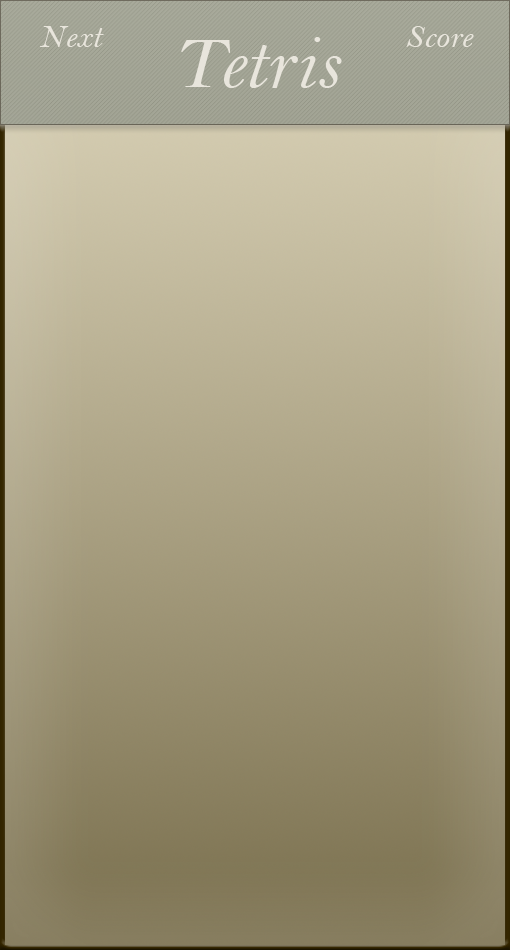
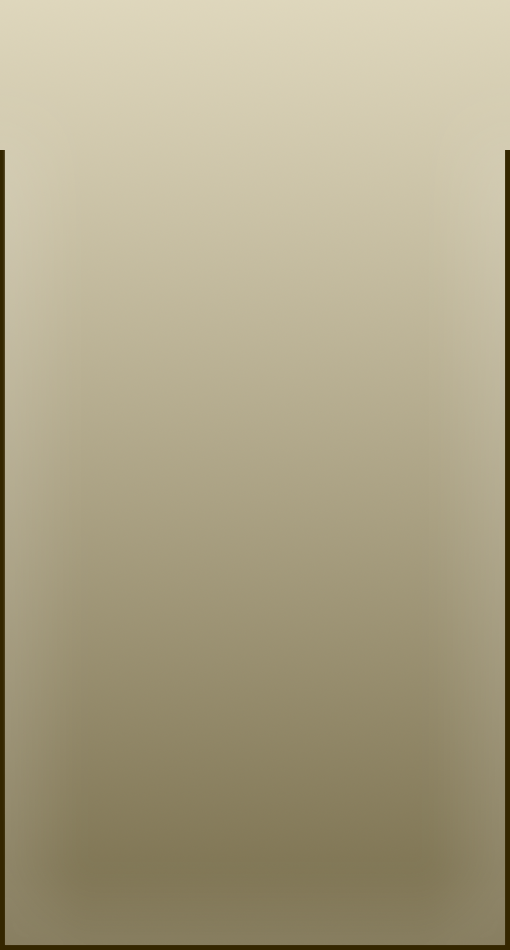
More game logic updates, updated assets

Changed region(s): [[0.0, 0.0, 1.0, 0.1526], [0.0, 0.9768, 1.0, 1.0]]

diff --git a/src/Game.js b/src/Game.js
@@ -1,8 +1,8 @@
 Tetris.Game = function (game) {
   
   // Set turn length and counter
-  this.turnCounter = 0;
   this.turnLength = 60;
+  this.turnCounter = 0;
   
   this.nextShape = null;
   this.activeShape = null;
@@ -20,19 +20,28 @@ Tetris.Game.prototype = {
     
   create: function () {
     
+    var i, j;
+    
     // Create background
     this.stage.backgroundColor = 0x171642; 
     this.add.sprite(0,0,'background');
+    this.add.sprite(0,0,'banner');
     
     // Create an empty board filled with nulls
     this.board = new Array(this.BOARD_HEIGHT);
-    for (var i = 0; i < this.board.length; i++) {
+    for(i = 0; i < this.board.length; i++) 
+    {
       this.board[i] = new Array(this.BOARD_WIDTH);
-      for (var j = 0; j < this.board[i].length; j++) {
+      for (j = 0; j < this.board[i].length; j++) {
         this.board[i][j] = null;
       }
     }
     
+    // Create groups of unused block sprites
+    for(i = 0; i < Tetris.NUM_COLORS; i++) {
+      Tetris.unusedBlocks[i] = this.add.group();
+    }
+        
     // Retrieve blockPositions
     Tetris.blockPositionsJSON = this.game.cache.getJSON('blockPositions');
     Tetris.blockPositions = Tetris.blockPositionsJSON.blockPositions;
@@ -44,6 +53,7 @@ Tetris.Game.prototype = {
     // Create Shapes
     this.nextShape = new Tetris.Shape();
     this.nextShape.randomizeShape();
+    this.nextShape.preview();
     
     this.activeShape = new Tetris.Shape();
     this.activeShape.randomizeShape();
@@ -59,17 +69,18 @@ Tetris.Game.prototype = {
         this.activeShape.moveShape(Tetris.DOWN);
         
       // Otherwise the shape stops
-      } else {
-        // Clean up the active shape, we won't use this one anymore
-        this.activeShape.clean();
-        
+      } else {      
         // Handle horizontal line clearing
         this.clearHorizontalLines();
         
         // Make the next shape active and create a new next shape
+        this.activeShape.clearActive();
         this.activeShape = this.nextShape();
         this.activeShape.activate();
+
+        this.nextShape.clearPreview();
         this.nextShape.randomizeShape();
+        this.nextShape.preview();
       }
       
       // reset turn counter

diff --git a/src/Shape.js b/src/Shape.js
@@ -13,7 +13,8 @@ Tetris.Shape = function () {
 Tetris.Shape.prototype = {
 
   NUM_BLOCKS_IN_SHAPE: 4,
-  
+  NUM_SHAPE_TYPES: 7,
+
   // Shape type
   I: 0,
   J: 1,
@@ -29,17 +30,11 @@ Tetris.Shape.prototype = {
     this.type = this.O;
     this.orientation = 0;
     this.color = Tetris.GREEN;
-
-    // Center Block Position
-    this.centerX = 4;
-    this.centerY = 4;
-
-    this.initBlocks();
-    this.setupBlocks();
   },
   
   initBlocks: function () {
     
+    //TODO: Remove if left unused
     var i;
     for(i = 0; i < this.NUM_BLOCKS_IN_SHAPE; i++) {
       this.blocks[i] = new Tetris.Block();
@@ -47,20 +42,39 @@ Tetris.Shape.prototype = {
   },
   
   setupBlocks: function () {
-    
+        
     var i, newX, newY;
 
     for(i = 0; i < this.blocks.length; i++) {
-      newX = Tetris.blockPositions[this.type][this.orientation][i].x;
-      newY = Tetris.blockPositions[this.type][this.orientation][i].y;
+      newX = this.centerX + Tetris.blockPositions[this.type][this.orientation][i].x;
+      newY = this.centerY + Tetris.blockPositions[this.type][this.orientation][i].y;
       this.blocks[i].makeBlock(newX, newY, this.color);
     }
+  },
+  
+  preview: function () {
+    
+    //TODO
+  },
+  
+  clearPreview: function () {
+    
+    //TODO
   },
   
   activate: function () {
     
     //TODO
     // move to drop location
+    this.centerX = Tetris.blockPositionsJSON.startingPosition.x;
+    this.centerY = Tetris.blockPositionsJSON.startingPosition.y;
+    
+    this.setupBlocks();
+  },
+  
+  clearActive: function () {
+    
+    //TODO
   },
   
   isOnBoard: function (x, y) {

diff --git a/src/Preloader.js b/src/Preloader.js
@@ -34,6 +34,7 @@ Tetris.Preloader.prototype = {
 
     // Load images
     this.load.image('background', 'background.png');
+    this.load.image('banner', 'banner.png');
     this.load.spritesheet('block', 'blocks.png');
     
     // Load blockPositions.json and put into Tetris.blockPositions
@@ -42,6 +43,8 @@ Tetris.Preloader.prototype = {
   
   create: function () {
     this.stage.backgroundColor = 0x222222;
+    
+    //
 
     this.numberOfDecodedSounds = 0;
 

diff --git a/src/Tetris.js b/src/Tetris.js
@@ -23,6 +23,7 @@ var Tetris =
   RIGHT: 2,
     
   // Block colors
+  NUM_COLORS: 4,
   GREEN:  0,
   RED:    1,
   BLUE:   2,
@@ -32,7 +33,9 @@ var Tetris =
   // blockPositions[shapeType][orientation][blockNumber].x = (int) board positions away from Shape.centerX
   // in the x direction.
   blockPositionsJSON: null,
-  blockPositions: null
+  blockPositions: null,  
+  
+  unusedBlocks: []
 };
 
 Tetris.run = function()

diff --git a/src/Block.js b/src/Block.js
@@ -15,6 +15,8 @@ Tetris.Block.prototype = {
     this.x = newX;
     this.y = newY;
     this.color = newColor;
+    
+    this.game.add.sprite();
   },
   
   clean: function() {
